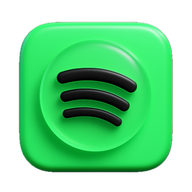
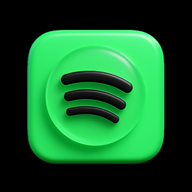
h

diff --git a/frontend/scripts/generate-optimized-icons.js b/frontend/scripts/generate-optimized-icons.js
@@ -1,0 +1,213 @@
+import fs from 'fs';
+import path from 'path';
+import { fileURLToPath } from 'url';
+import sharp from 'sharp';
+
+// Get current directory for ES modules
+const __filename = fileURLToPath(import.meta.url);
+const __dirname = path.dirname(__filename);
+
+// Define icon sizes to generate
+const ICON_SIZES = [16, 32, 48, 72, 96, 128, 144, 152, 192, 384, 512];
+const SOURCE_PNG = path.join(__dirname, '../../icon.spotify.png');
+const OUTPUT_DIR = path.join(__dirname, '../public/spotify-icons');
+
+// Ensure output directory exists
+if (!fs.existsSync(OUTPUT_DIR)) {
+  fs.mkdirSync(OUTPUT_DIR, { recursive: true });
+}
+
+// Generate PNG icons with small black background to increase icon size
+async function generateOptimizedIcons() {
+  console.log('Generating optimized Spotify icons with small black background...');
+  
+  try {
+    // Generate standard icons - with small black background to make icon appear larger
+    for (const size of ICON_SIZES) {
+      // Create a black background canvas
+      const canvas = sharp({
+        create: {
+          width: size,
+          height: size,
+          channels: 4,
+          background: { r: 0, g: 0, b: 0, alpha: 1 } // Black background
+        }
+      });
+      
+      // Resize the icon to 90% of the canvas size (leaving 5% black border on each side)
+      const iconSize = Math.floor(size * 0.9);
+      const iconOffset = Math.floor((size - iconSize) / 2);
+      
+      const icon = sharp(SOURCE_PNG)
+        .resize(iconSize, iconSize, {
+          fit: 'fill'
+        });
+      
+      // Composite the icon onto the black background
+      await canvas
+        .composite([{
+          input: await icon.toBuffer(),
+          top: iconOffset,
+          left: iconOffset
+        }])
+        .png()
+        .toFile(path.join(OUTPUT_DIR, `spotify-icon-${size}.png`));
+      
+      console.log(`Created optimized icon: spotify-icon-${size}.png`);
+    }
+    
+    // Generate maskable icons - with small black background
+    for (const size of [192, 512]) {
+      const canvas = sharp({
+        create: {
+          width: size,
+          height: size,
+          channels: 4,
+          background: { r: 0, g: 0, b: 0, alpha: 1 } // Black background
+        }
+      });
+      
+      const iconSize = Math.floor(size * 0.9);
+      const iconOffset = Math.floor((size - iconSize) / 2);
+      
+      const icon = sharp(SOURCE_PNG)
+        .resize(iconSize, iconSize, {
+          fit: 'fill'
+        });
+      
+      await canvas
+        .composite([{
+          input: await icon.toBuffer(),
+          top: iconOffset,
+          left: iconOffset
+        }])
+        .png()
+        .toFile(path.join(OUTPUT_DIR, `spotify-icon-maskable-${size}.png`));
+      
+      console.log(`Created optimized maskable icon: spotify-icon-maskable-${size}.png`);
+    }
+    
+    // Generate Apple touch icons - with small black background
+    const appleSizes = [120, 152, 167, 180];
+    for (const size of appleSizes) {
+      const outputPath = path.join(__dirname, '../public/apple-touch-icon-' + size + '.png');
+      
+      const canvas = sharp({
+        create: {
+          width: size,
+          height: size,
+          channels: 4,
+          background: { r: 0, g: 0, b: 0, alpha: 1 } // Black background
+        }
+      });
+      
+      const iconSize = Math.floor(size * 0.9);
+      const iconOffset = Math.floor((size - iconSize) / 2);
+      
+      const icon = sharp(SOURCE_PNG)
+        .resize(iconSize, iconSize, {
+          fit: 'fill'
+        });
+      
+      await canvas
+        .composite([{
+          input: await icon.toBuffer(),
+          top: iconOffset,
+          left: iconOffset
+        }])
+        .png()
+        .toFile(outputPath);
+      
+      console.log(`Created optimized Apple touch icon: apple-touch-icon-${size}.png`);
+    }
+    
+    // Create favicon - with small black background
+    const faviconCanvas = sharp({
+      create: {
+        width: 32,
+        height: 32,
+        channels: 4,
+        background: { r: 0, g: 0, b: 0, alpha: 1 } // Black background
+      }
+    });
+    
+    const faviconIcon = sharp(SOURCE_PNG)
+      .resize(29, 29, { fit: 'fill' }); // 90% of 32
+    
+    await faviconCanvas
+      .composite([{
+        input: await faviconIcon.toBuffer(),
+        top: 1,
+        left: 1
+      }])
+      .png()
+      .toFile(path.join(__dirname, '../public/favicon.png'));
+    
+    console.log('Created optimized favicon: favicon.png');
+    
+    // Create main logo - with small black background
+    const logoCanvas = sharp({
+      create: {
+        width: 512,
+        height: 512,
+        channels: 4,
+        background: { r: 0, g: 0, b: 0, alpha: 1 } // Black background
+      }
+    });
+    
+    const logoIcon = sharp(SOURCE_PNG)
+      .resize(461, 461, { fit: 'fill' }); // 90% of 512
+    
+    await logoCanvas
+      .composite([{
+        input: await logoIcon.toBuffer(),
+        top: 25,
+        left: 25
+      }])
+      .png()
+      .toFile(path.join(OUTPUT_DIR, 'spotify-logo-green.png'));
+    
+    console.log('Created optimized logo: spotify-logo-green.png');
+    
+    // Create shortcut icons - with small black background
+    const shortcutCanvas = sharp({
+      create: {
+        width: 96,
+        height: 96,
+        channels: 4,
+        background: { r: 0, g: 0, b: 0, alpha: 1 } // Black background
+      }
+    });
+    
+    const shortcutIcon = sharp(SOURCE_PNG)
+      .resize(86, 86, { fit: 'fill' }); // 90% of 96
+    
+    await shortcutCanvas
+      .composite([{
+        input: await shortcutIcon.toBuffer(),
+        top: 5,
+        left: 5
+      }])
+      .png()
+      .toFile(path.join(__dirname, '../public/shortcut-liked-96.png'));
+    
+    await shortcutCanvas
+      .composite([{
+        input: await shortcutIcon.toBuffer(),
+        top: 5,
+        left: 5
+      }])
+      .png()
+      .toFile(path.join(__dirname, '../public/shortcut-search-96.png'));
+    
+    console.log('Created optimized shortcut icons');
+    
+    console.log('All optimized icons generated successfully!');
+  } catch (error) {
+    console.error('Error generating optimized icons:', error);
+    process.exit(1);
+  }
+}
+
+// Run the icon generation
+generateOptimizedIcons();
